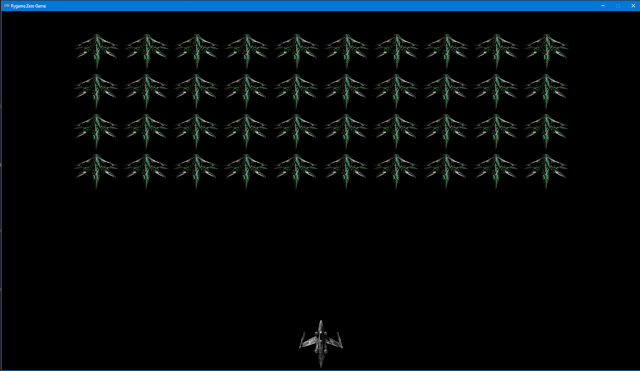
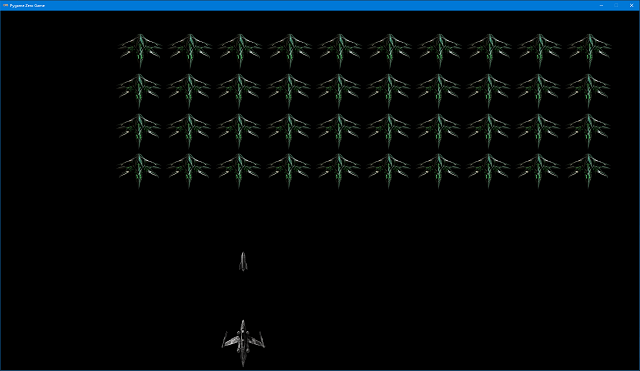
player can shot rockets

diff --git a/main.py b/main.py
@@ -34,16 +34,58 @@ PlayerSpeed = 10
 player = mod.Actor('playership', (PlayerX, PlayerY))
 
 
+# rocket settings
+RocketSpeed = 15
+PlayerCanShoot = True
+DelayBetweenRocket = 0.5
+
+# init rockets
+rockets = []
+for i in range(0, 3):  # 3 rockets available
+    newrocket = mod.Actor('rocket')
+    newrocket.left = -1000
+    newrocket.top = -1000
+    rockets.append(newrocket)  # -1000,-1000 mean disabled
+
+
 def draw():
     mod.screen.clear()
     for alien in aliens:  # draw each alien in array
         alien.draw()
+    for rocket in rockets:  # draw each active rockets
+        if rocket.left != -1000 and rocket.top != -1000:
+            rocket.draw()
     player.draw()  # draw player
 
 
 def update():
     move_aliens()
+    manage_rockets()
     manage_player()
+
+
+def manage_rockets():
+    global PlayerCanShoot, DelayBetweenRocket
+
+    if PlayerCanShoot and mod.keyboard.space:  # new shot requested
+        for rocket in rockets:
+            if rocket.left == -1000 and rocket.top == -1000:  # check if one rocket is available
+                rocket.center = player.center
+                rocket.bottom = player.top
+                PlayerCanShoot = False
+                mod.clock.schedule_unique(active_rockets, DelayBetweenRocket)  # active delay between rockets
+                break
+    for rocket in rockets:  # move active rockets
+        if rocket.left != -1000 and rocket.top != - 1000:
+            rocket.top -= RocketSpeed
+            if rocket.bottom < 0:  # check bounds
+                rocket.left = -1000
+                rocket.top = -1000
+
+
+def active_rockets():
+    global PlayerCanShoot
+    PlayerCanShoot = True
 
 
 def manage_player():
@@ -70,11 +112,9 @@ def move_aliens():
         if alien.left > WIDTH - alien.width:  # check bounds
             AlienDirection = Direction.LEFT
             directionchange = True
-            break
         elif alien.left < 0:
             AlienDirection = Direction.RIGHT
             directionchange = True
-            break
     if directionchange:  # alien move down if direction change
         for alien in aliens:
             alien.top += AlienComeDownSpeed

diff --git a/README.md b/README.md
@@ -24,10 +24,11 @@ this is my first python project for educational purpose only
 
 ## Images
 
-|    Item     |                             Midjourney prompt                             | Preview                                                                                         |
-|:-----------:|:-------------------------------------------------------------------------:|:------------------------------------------------------------------------------------------------|
-| Alien ship  | [green organic alien starfighter top view pure black background --v 5 ]() | ![Alien Ship](https://s3.eu-west-1.amazonaws.com/lemoine.yann/github/pyinvaders/alienship.png)  |
-| Player ship |    [starwar style starfighter top view pure black background --v 5]()     | ![Player Ship](https://s3.eu-west-1.amazonaws.com/lemoine.yann/github/pyinvaders/playership.png) |
+|    Item     |                             Midjourney prompt                             | Preview                                                                                           |
+|:-----------:|:-------------------------------------------------------------------------:|:--------------------------------------------------------------------------------------------------|
+| Alien ship  | [green organic alien starfighter top view pure black background --v 5 ]() | ![Alien Ship](https://s3.eu-west-1.amazonaws.com/lemoine.yann/github/pyinvaders/alienship.png)    |
+| Player ship |    [starwar style starfighter top view pure black background --v 5]()     | ![Player Ship](https://s3.eu-west-1.amazonaws.com/lemoine.yann/github/pyinvaders/playership.png)  |
+|   Rocket    |    [simple rocket video game top view pure black background --v 5]()      | ![Rocket](https://s3.eu-west-1.amazonaws.com/lemoine.yann/github/pyinvaders/rocket.png)           |
 
 
 ## Licence
